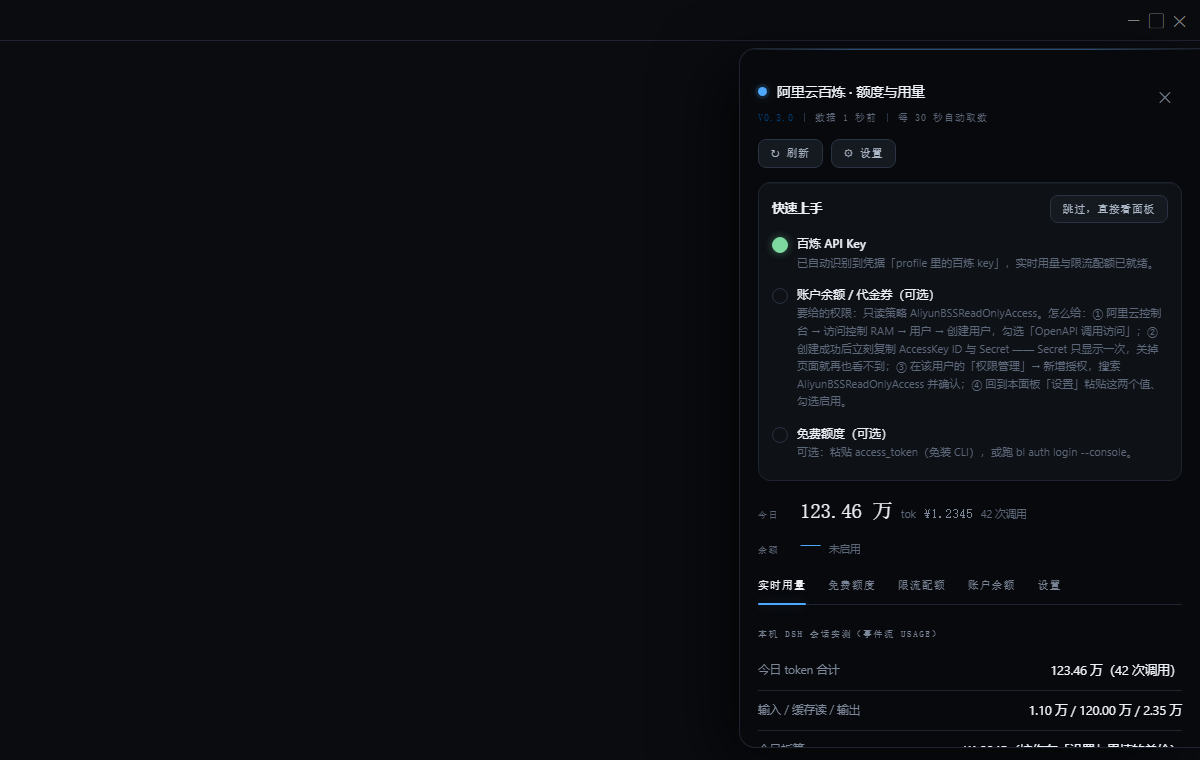
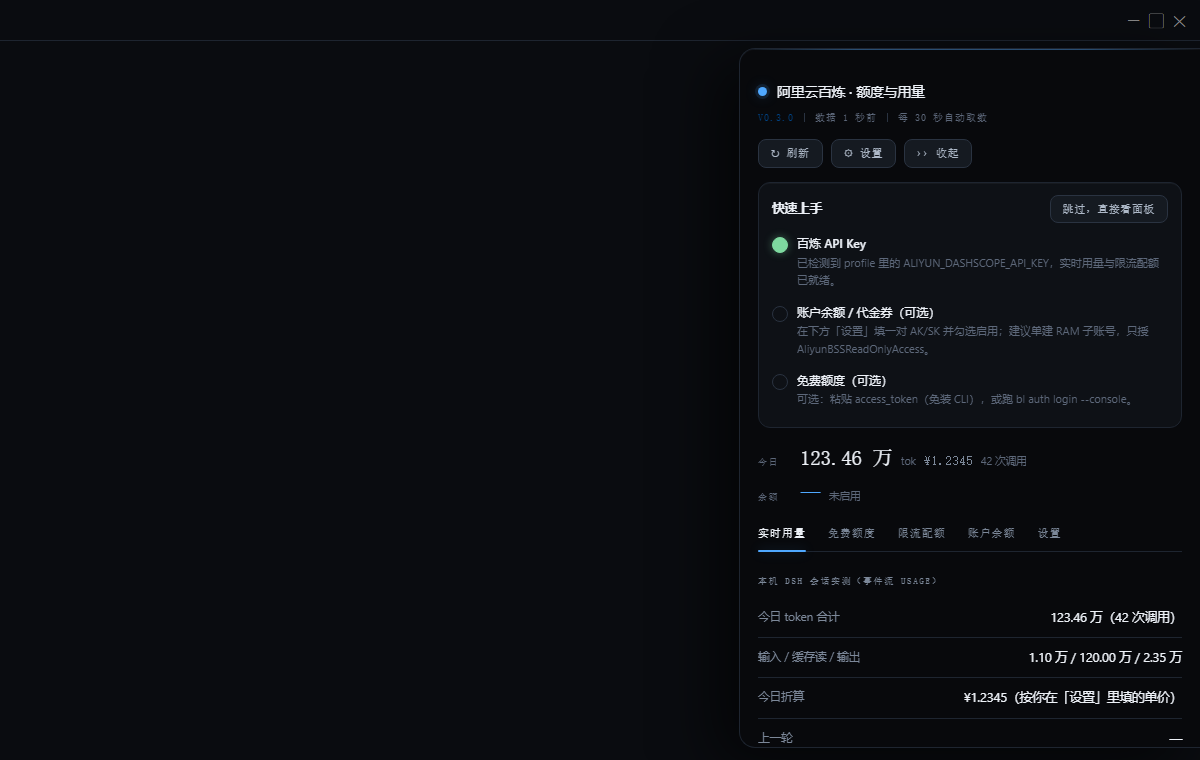
fix: catalog cache never persisted (DIR -> DATA_DIR); panel follows DSH design tokens
- lib/index.js: catalogFile() referenced an undefined DIR, so both cache read and
  write threw ReferenceError and were silently swallowed. The model catalog was
  therefore fetched on every refresh cycle (~30s) instead of once per 24h.
  Prices still worked; only the disk cache was dead. Added __test exports.
- test: 5 new assertions (cache file exists / path / contents + static check that
  every path.join(CONST, ...) constant is actually declared), positive-controlled.
- assets/widget.js: colors now reference --dsw-alias-* design tokens (follows the
  host theme instead of hardcoding one palette); 0.5px borders, soft shadows,
  token radii; default accent is the stock brand blue #5686FE.
- layout: summary is a single three-column band; token breakdown is four metric
  cards; decorative full-caps labels and letter-spacing removed.
- docs/img: re-rendered screenshots.

diff --git a/assets/widget.js b/assets/widget.js
@@ -8,28 +8,44 @@
   // —— 配色：终末地（dsh-endfield-theme）HUD 语言 ——
   // 一律「宿主变量优先 + 硬编码兜底」：装了 endfield 主题就完全跟随它，没装也不难看。
   // 关键令牌（从主题 theme.css 实测抽出）：--ef-y #f2f013 酸黄 / --ef-ink-900 #0a0c0c 墨黑
-  // / --ef-power-nominal|low|empty 电量三色 / --dsw-alias-state-* 状态色 / 字体 Endfield Tech。
+  // 现在统一改为引用 DSH 自己的 alias 层（--dsw-alias-*），换主题时自动跟随。
   var baseCss = [
     // —— 令牌 ——
-    // 强调色仍取主题的酸黄（跟 dsh-endfield-theme 一致），但表面一律用实色，
-    // 不再用半透明白叠加 —— 那是在深色底上产生「灰蒙蒙奶雾」的根源。
+    // —— 令牌：一律引用 DSH 自己的 alias 层（--dsw-alias-*），括号内是原版暗色的兜底值 ——
+    // 为什么这样做：DSH 换主题（原版亮/暗、以及第三方主题）就是覆盖这一层。
+    // 引用它 = 面板永远跟当前主题同色系、同字体，不会出现"插件自成一派"的割裂。
     '.' + P + '-drawer,.' + P + '-panel,.' + P + '-pill,.' + P + '-handle{',
-    '--base:#08090C;--surf:#0E1116;--raise:#151A21;--raise2:#1B222B;',
-    '--line:#1E2530;--line2:#2A3341;',
-    '--txt:#EEF2F8;--txt2:#AEB9C8;--dim:#7C8899;--dim3:#5D687A;',
-    '--ok:#7ED9A0;--warn:#F5B94B;--bad:#FF6B6B;',
-    '--tech:"Endfield Tech",Saira,ui-monospace,SFMono-Regular,Menlo,monospace;',
-    '--sans:"Endfield Sans SC",-apple-system,BlinkMacSystemFont,"Segoe UI","Microsoft YaHei",sans-serif;',
-    '--r:10px;--r2:14px;--ease:cubic-bezier(.22,.61,.36,1);--dur:.16s}',
+    '--base:var(--dsw-alias-bg-base,rgb(21,21,23));',
+    '--surf:var(--dsw-alias-bg-layer-1,rgb(35,35,36));',
+    '--raise:var(--dsw-alias-bg-layer-2,rgb(44,44,46));',
+    '--raise2:var(--dsw-alias-bg-layer-3,rgb(53,54,56));',
+    '--line:var(--dsw-alias-border-l1,rgba(255,255,255,.06));',
+    '--line2:var(--dsw-alias-border-l2,rgba(255,255,255,.12));',
+    '--line3:var(--dsw-alias-border-l3,rgba(255,255,255,.16));',
+    '--hover:var(--dsw-alias-interactive-bg-hover,rgba(255,255,255,.08));',
+    '--txt:var(--dsw-alias-label-primary,#f9fafb);',
+    '--txt2:var(--dsw-alias-label-secondary,#cfd3d6);',
+    '--dim:var(--dsw-alias-label-tertiary,#adb2b8);',
+    '--dim3:var(--dsw-alias-label-dimmed,rgb(67,69,74));',
+    '--ok:var(--dsw-alias-state-success-primary,rgb(34,197,94));',
+    '--warn:var(--dsw-alias-state-warn-primary,rgb(245,158,11));',
+    '--bad:var(--dsw-alias-state-error-primary,rgb(242,90,90));',
+    '--tech:var(--dsw-font-family-code,ui-monospace,SFMono-Regular,Menlo,monospace);',
+    '--sans:var(--dsw-font-family,-apple-system,BlinkMacSystemFont,"Segoe UI","Microsoft YaHei",sans-serif);',
+    '--r:var(--dsw-radius-md,8px);--r2:var(--dsw-radius-lg,12px);',
+    // 原版面板是 0.5px 细描边 + 柔和投影，不是大黑晕
+    '--elev-soft:0 .5px 0 var(--line),0 4px 16px rgba(0,0,0,.28);',
+    '--elev-panel:0 .5px 0 var(--line),0 3px 8px rgba(0,0,0,.32);',
+    '--ease:cubic-bezier(.22,.61,.36,1);--dur:.16s}',
     // —— 把手：实色小竖卡 + 靠屏一侧酸黄实边 + 顶部状态点 + 底部余额胶囊 ——
     '.' + P + '-handle{position:fixed;z-index:2147483000;display:flex;flex-direction:column;align-items:center;gap:9px;',
     'padding:11px 7px 10px;background:var(--surf);color:var(--txt2);border:1px solid var(--line);',
     'font:9.5px/1.5 var(--tech);letter-spacing:.2em;text-transform:uppercase;cursor:pointer;user-select:none;',
     'writing-mode:vertical-rl;touch-action:none;opacity:.92;',
-    'box-shadow:0 10px 34px rgba(0,0,0,.55),inset 0 1px 0 rgba(255,255,255,.05);',
+    'box-shadow:var(--elev-panel);',
     'transition:opacity var(--dur),border-color var(--dur),color var(--dur),transform var(--dur)}',
-    '.' + P + '-handle.right{right:0;border-right:none;border-radius:13px 0 0 13px;box-shadow:inset 3px 0 0 var(--acc),0 10px 34px rgba(0,0,0,.55),inset 0 1px 0 rgba(255,255,255,.05)}',
-    '.' + P + '-handle.left{left:0;border-left:none;border-radius:0 13px 13px 0;box-shadow:inset -3px 0 0 var(--acc),0 10px 34px rgba(0,0,0,.55),inset 0 1px 0 rgba(255,255,255,.05)}',
+    '.' + P + '-handle.right{right:0;border-right:none;border-radius:var(--r) 0 0 var(--r);box-shadow:inset 2px 0 0 var(--acc),var(--elev-panel)}',
+    '.' + P + '-handle.left{left:0;border-left:none;border-radius:0 var(--r) var(--r) 0;box-shadow:inset -2px 0 0 var(--acc),var(--elev-panel)}',
     '.' + P + '-handle:hover{opacity:1;color:var(--txt);border-color:var(--line2)}',
     '.' + P + '-handle.right:hover{transform:translateX(-2px)}',
     '.' + P + '-handle.left:hover{transform:translateX(2px)}',
@@ -50,16 +66,16 @@
     '.' + P + '-drawer{position:fixed;top:48px;bottom:12px;right:0;z-index:2147483001;overflow:auto;',
     'padding:0 18px 24px;transform:translateX(103%);opacity:0;pointer-events:none;',
     'transition:transform .3s var(--ease),opacity .24s ease;',
-    'border:1px solid var(--line);border-right:none;border-radius:16px 0 0 16px;background:var(--base);color:var(--txt);',
+    'border:.5px solid var(--line);border-right:none;border-radius:var(--r2) 0 0 var(--r2);background:var(--base);color:var(--txt);',
     'font:12.5px/1.7 var(--sans);max-width:92vw;',
-    'box-shadow:-24px 16px 60px rgba(0,0,0,.6),inset 0 1px 0 rgba(255,255,255,.04)}',
-    '.' + P + '-drawer.left{left:0;right:auto;border-radius:0 16px 16px 0;border-right:1px solid var(--line);border-left:none;',
+    'box-shadow:var(--elev-soft)}',
+    '.' + P + '-drawer.left{left:0;right:auto;border-radius:0 var(--r2) var(--r2) 0;border-right:1px solid var(--line);border-left:none;',
     'transform:translateX(-103%)}',
     '.' + P + '-drawer.open{transform:none;opacity:1;pointer-events:auto}',
     // 内容比外壳晚一点点，形成错峰入场；关闭时随外壳一起淡出
     '.' + P + '-body{transition:opacity .2s ease .06s,transform .28s var(--ease) .06s}',
     '.' + P + '-drawer:not(.open) ' + '.' + P + '-body{opacity:0;transform:translateY(8px)}',
-    '.' + P + '-hz{height:1px;margin:0 -18px 16px;background:linear-gradient(90deg,transparent,var(--acc-40) 25%,var(--acc-40) 75%,transparent)}',
+    '.' + P + '-hz{height:1px;margin:0 -18px 16px;background:var(--line)}',
     '.' + P + '-drawer::-webkit-scrollbar{width:10px}',
     '.' + P + '-drawer::-webkit-scrollbar-thumb{background:var(--line2);border-radius:8px;border:3px solid transparent;background-clip:padding-box}',
     '.' + P + '-drawer::-webkit-scrollbar-thumb:hover{background:#3A4553;background-clip:padding-box;border:3px solid transparent}',
@@ -72,33 +88,49 @@
     '.' + P + '-x:hover{color:var(--txt);background:var(--raise);border-color:var(--line2)}',
     '.' + P + '-hd h4{margin:0;font:500 13.5px/1.4 var(--sans);letter-spacing:.01em;display:flex;align-items:center;gap:10px;color:var(--txt)}',
     '.' + P + '-mark{width:9px;height:9px;border-radius:50%;flex:0 0 auto;background:var(--acc);box-shadow:0 0 0 3px var(--acc-12),0 0 14px var(--acc-28)}',
-    '.' + P + '-meta{display:flex;flex-wrap:wrap;gap:10px;margin-top:8px;font:10px/1.6 var(--tech);letter-spacing:.1em;text-transform:uppercase;color:var(--dim3)}',
+    '.' + P + '-meta{display:flex;flex-wrap:wrap;gap:10px;margin-top:8px;font:10.5px/1.6 var(--sans);letter-spacing:0;text-transform:none;color:var(--dim3)}',
     '.' + P + '-meta span:not(:first-child):before{content:"";display:inline-block;width:1px;height:9px;background:var(--line2);margin-right:10px;vertical-align:-1px}',
     '.' + P + '-chip.v{color:var(--acc-lo)}',
     '.' + P + '-acts{display:flex;gap:8px;margin-top:14px;flex-wrap:wrap}',
     // —— 摘要三行：不用卡片容器，靠留白与基线对齐建立层级 ——
-    '.' + P + '-sum{display:flex;flex-direction:column;gap:10px;margin:18px 0 2px}',
+    '.' + P + '-sum{display:grid;grid-template-columns:1.25fr 1fr 1fr;gap:0;margin:16px 0 4px;align-items:start}',
+    '.' + P + '-cell{min-width:0;padding:0 13px;border-left:.5px solid var(--line)}',
+    '.' + P + '-cell:first-child{border-left:0;padding-left:0}',
+    '.' + P + '-v{display:block;font:600 19px/1.3 var(--sans);letter-spacing:-.015em;',
+    'font-variant-numeric:tabular-nums;color:var(--txt);white-space:nowrap;overflow:hidden;text-overflow:ellipsis}',
+    '.' + P + '-v i{font-style:normal;font-weight:400;font-size:10px;color:var(--dim);margin-left:3px;letter-spacing:0}',
+    '.' + P + '-v.acc{color:var(--acc)}',
+    '.' + P + '-mets{display:grid;grid-template-columns:repeat(4,1fr);gap:8px;margin:6px 0 14px}',
+    '.' + P + '-met{background:var(--surf);border-radius:var(--r);padding:8px 10px;min-width:0}',
+    '.' + P + '-mk{display:block;font-size:10.5px;line-height:1.4;color:var(--dim);margin-bottom:3px}',
+    '.' + P + '-met b{display:block;font:600 13.5px/1.35 var(--sans);font-variant-numeric:tabular-nums;',
+    'white-space:nowrap;overflow:hidden;text-overflow:ellipsis;color:var(--txt)}',
+    '.' + P + '-track.slim{display:block;height:2px;margin-top:7px}',
     '.' + P + '-sumrow{display:flex;align-items:baseline;gap:8px;min-width:0}',
-    '.' + P + '-k{font:500 9px/1.6 var(--tech);letter-spacing:.16em;text-transform:uppercase;',
-    'color:var(--dim3);width:34px;flex:0 0 auto}',
-    '.' + P + '-sumrow b{font:400 21px/1.15 var(--tech);letter-spacing:-.01em;',
+    '.' + P + '-k{display:block;font:400 11px/1.5 var(--sans);letter-spacing:0;text-transform:none;',
+    'color:var(--dim);margin-bottom:2px}',
+    '.' + P + '-sumrow b{font:600 20px/1.15 var(--sans);letter-spacing:-.01em;',
     'font-variant-numeric:tabular-nums;color:var(--txt)}',
     '.' + P + '-sumrow b.acc{color:var(--acc)}',
-    '.' + P + '-u{font-size:10.5px;color:var(--dim3);white-space:nowrap;overflow:hidden;text-overflow:ellipsis}',
-    '.' + P + '-sumrow em{font-style:normal;font:400 12.5px/1 var(--tech);color:var(--dim);',
+    '.' + P + '-u{display:block;font-size:10.5px;line-height:1.5;color:var(--dim3);margin-top:2px;',
+    'white-space:nowrap;overflow:hidden;text-overflow:ellipsis}',
+    '.' + P + '-sumrow em{font-style:normal;font:400 12px/1 var(--sans);color:var(--dim);',
     'font-variant-numeric:tabular-nums}',
     '.' + P + '-gauge{display:flex;align-items:center;gap:8px}',
     '.' + P + '-track{flex:1 1 auto;height:2px;background:var(--raise2);border-radius:2px;overflow:hidden}',
     '.' + P + '-track u{display:block;height:100%;border-radius:2px;transition:width .35s var(--ease)}',
-    '.' + P + '-pct{font:400 11px/1 var(--tech);color:var(--dim);font-variant-numeric:tabular-nums;',
+    '.' + P + '-pct{font:400 11px/1 var(--sans);color:var(--dim);font-variant-numeric:tabular-nums;',
     'width:38px;text-align:right}',
     // —— 标签条 ——
-    '.' + P + '-tabs{display:flex;gap:22px;margin:20px 0 18px;border-bottom:1px solid var(--line);flex-wrap:wrap}',
-    '.' + P + '-tab{padding:0 0 11px;font:500 10.5px/1.4 var(--tech);letter-spacing:.14em;text-transform:uppercase;',
-    'color:var(--dim);cursor:pointer;white-space:nowrap;position:relative;transition:color var(--dur)}',
+    '.' + P + '-tabs{display:flex;gap:2px;margin:18px 0 16px;padding:3px;background:var(--surf);',
+    'border-radius:var(--r);flex-wrap:nowrap}',
+    '.' + P + '-tab{padding:6px 2px;border-radius:calc(var(--r) - 2px);',
+    'font:500 11.5px/1.35 var(--sans);letter-spacing:0;text-transform:none;text-align:center;',
+    'flex:1 1 0;min-width:0;overflow:hidden;text-overflow:ellipsis;color:var(--dim);cursor:pointer;',
+    'white-space:nowrap;position:relative;transition:color var(--dur),background var(--dur)}',
     '.' + P + '-tab:hover{color:var(--txt2)}',
-    '.' + P + '-tab.on{color:var(--txt)}',
-    '.' + P + '-tab.on:after{content:"";position:absolute;left:0;right:0;bottom:-1px;height:2px;background:var(--acc);border-radius:2px;box-shadow:0 0 12px var(--acc-28)}',
+    '.' + P + '-tab.on{color:var(--txt);background:var(--raise);box-shadow:0 .5px 0 rgba(0,0,0,.18)}',
+    '.' + P + '-tab.on:after{display:none}',
     '.' + P + '-body{animation:' + P + '-in .2s var(--ease)}',
     '@keyframes ' + P + '-in{from{opacity:0;transform:translateY(6px)}to{opacity:1;transform:none}}',
     // —— 旧胶囊模式 ——
@@ -109,8 +141,8 @@
     '.' + P + '-pill:hover{border-color:var(--line2)}',
     '.' + P + '-pill b{font-weight:600;color:var(--acc);font-variant-numeric:tabular-nums}',
     '.' + P + '-panel{position:fixed;left:16px;bottom:56px;z-index:2147483001;width:640px;max-width:calc(100vw - 32px);',
-    'max-height:min(78vh,760px);overflow:auto;border-radius:var(--r2);border:1px solid var(--line);background:var(--base);',
-    'color:var(--txt);font:12.5px/1.7 var(--sans);box-shadow:0 24px 60px rgba(0,0,0,.6);padding:16px 18px;',
+    'max-height:min(78vh,760px);overflow:auto;border-radius:var(--r2);border:.5px solid var(--line);background:var(--base);',
+    'color:var(--txt);font:12.5px/1.7 var(--sans);box-shadow:var(--elev-soft);padding:16px 18px;',
     'animation:dshbl-panel-in .26s var(--ease) both}',
     // 出场：JS 挂上 closing 类，动画放完再移除节点
     // 注意名字要带 panel- 前缀：裸 dshbl-in 已被内容区换页动画占用（见上方 -body 规则），
@@ -122,7 +154,7 @@
     '.' + P + '-dot{width:6px;height:6px;border-radius:50%;background:var(--ok);flex:0 0 auto;display:inline-block;box-shadow:0 0 8px var(--ok)}',
     '.' + P + '-dot.warn{background:var(--warn);box-shadow:0 0 8px var(--warn)}',
     '.' + P + '-dot.err{background:var(--bad);box-shadow:0 0 8px var(--bad)}',
-    '.' + P + '-sec{margin:22px 0 10px;font:500 9px/1.5 var(--tech);letter-spacing:.18em;text-transform:uppercase;',
+    '.' + P + '-sec{margin:18px 0 8px;font:500 11px/1.5 var(--sans);letter-spacing:0;text-transform:none;',
     'color:var(--dim);display:flex;align-items:center;gap:12px}',
     // 列间距做进 padding：用 grid gap 会让每格 border-bottom 在列间断成两截
     '.' + P + '-kv{display:grid;grid-template-columns:auto 1fr;gap:0;font-size:12.5px}',
@@ -130,9 +162,9 @@
     '.' + P + '-kv>span:nth-child(odd){color:var(--dim);white-space:nowrap;padding-right:18px}',
     '.' + P + '-kv>span:nth-child(even){text-align:right;font-variant-numeric:tabular-nums;min-width:0;overflow-wrap:anywhere;color:var(--txt)}',
     '.' + P + '-kv>span:nth-last-child(-n+2){border-bottom:none}',
-    '.' + P + '-grid{display:grid;grid-template-columns:1fr auto auto auto;gap:0;font:12px/1 var(--tech);',
+    '.' + P + '-grid{display:grid;grid-template-columns:1fr auto auto auto;gap:0;font:12px/1 var(--sans);',
     'font-variant-numeric:tabular-nums;padding-bottom:6px}',
-    '.' + P + '-grid b{font-size:9px;letter-spacing:.14em;text-transform:uppercase;color:var(--dim);font-weight:500;padding:0 0 9px}',
+    '.' + P + '-grid b{font-size:11px;letter-spacing:0;text-transform:none;color:var(--dim);font-weight:500;padding:0 0 9px}',
     '.' + P + '-grid b:not(:first-child),.' + P + '-grid>span:not(:first-child){padding-left:14px}',
     '.' + P + '-grid>span{padding-top:9px;padding-bottom:9px;align-self:center;color:var(--txt2)}',
     '.' + P + '-rule{grid-column:1/-1;height:1px;background:var(--line2)}',
@@ -140,14 +172,15 @@
     '.' + P + '-g5{grid-template-columns:1fr auto auto auto auto}',
     '.' + P + '-bar{height:3px;border-radius:999px;background:var(--raise2);overflow:hidden;margin-top:8px;grid-column:1/-1}',
     '.' + P + '-bar i{display:block;height:100%;border-radius:999px;transition:width .35s var(--ease)}',
-    '.' + P + '-badge{display:inline-block;padding:2px 8px;border-radius:999px;font:500 9px/1.7 var(--tech);',
-    'letter-spacing:.1em;text-transform:uppercase;border:1px solid var(--line2);background:var(--raise);color:var(--dim)}',
+    '.' + P + '-badge{display:inline-block;padding:1px 7px;border-radius:999px;font:500 10.5px/1.7 var(--sans);',
+    'letter-spacing:0;text-transform:none;border:.5px solid var(--line2);background:var(--raise);color:var(--dim)}',
     '.' + P + '-badge.on{border-color:rgba(126,217,160,.35);color:var(--ok);background:rgba(126,217,160,.10)}',
     '.' + P + '-badge.warn{border-color:rgba(245,185,75,.35);color:var(--warn);background:rgba(245,185,75,.10)}',
     '.' + P + '-badge.na{opacity:.5}',
     '.' + P + '-badge.bad{border-color:rgba(255,107,107,.35);color:var(--bad);background:rgba(255,107,107,.10)}',
     // 代金券：实色卡 + 顶部渐隐酸黄线 + 大额酸黄读数
-    '.' + P + '-ticket{position:relative;background:var(--surf);border:1px solid var(--line);border-radius:var(--r2);',
+    '.' + P + '-ticket{position:relative;background:transparent;border:0;border-top:.5px solid var(--line);',
+    'border-radius:0;',
     'padding:15px 16px;margin:12px 0;overflow:hidden;box-shadow:inset 0 1px 0 rgba(255,255,255,.04)}',
     '.' + P + '-ticket:before{content:"";position:absolute;left:0;right:0;top:0;height:1px;background:linear-gradient(90deg,transparent,var(--acc-40),transparent)}',
     '.' + P + '-tkt-hd{display:flex;justify-content:space-between;align-items:center;gap:12px;font-size:12.5px;font-weight:500;color:var(--txt)}',
@@ -176,7 +209,7 @@
     '.' + P + '-tick.done{background:var(--ok);border-color:var(--ok);box-shadow:0 0 8px rgba(126,217,160,.4)}',
     '.' + P + '-wizhd{display:flex;justify-content:space-between;align-items:center;gap:10px;margin-bottom:4px}',
     '.' + P + '-muted{color:var(--dim);font-size:11.5px}',
-    '.' + P + '-note{border:1px solid var(--line);border-left:2px solid var(--warn);padding:10px 12px;background:var(--surf);',
+    '.' + P + '-note{border:0;padding:0;background:transparent;font-size:11.5px;line-height:1.65;',
     'border-radius:0 var(--r) var(--r) 0;font-size:11.5px;margin:10px 0;line-height:1.75;color:var(--txt2)}',
     '.' + P + '-note.err{border-left-color:var(--bad);background:rgba(255,107,107,.06)}',
     '.' + P + '-note.ok{border-left-color:var(--ok);background:rgba(126,217,160,.06)}',
@@ -192,8 +225,10 @@
 
   // —— 强调色：单一变量驱动 + 可读性钳制 ——
   // 只暴露一个可调项（用户面对 12 个变量只会关掉面板）。派生量全部由这一个 hex 算出来。
-  var ACCENT_DEFAULT = '#4FA8FF'
-  var PRESETS = [['天蓝', '#4FA8FF'], ['青碧', '#2FD4C4'], ['紫电', '#8A7BFF'], ['酸黄', '#F2F013']]
+  // 默认取原版 DSH 的品牌蓝（=--dsw-static-deepseek-450）；设置里可换回天蓝/酸黄等
+  var ACCENT_DEFAULT = '#5686FE'
+  var PRESETS = [['原版蓝', '#5686FE'], ['天蓝', '#4FA8FF'], ['青碧', '#2FD4C4'],
+                 ['紫电', '#8A7BFF'], ['酸黄', '#F2F013']]
   var styleEl = null, accentNow = ACCENT_DEFAULT, accFromConfig = null
 
   function hexToRgb(h) {
@@ -533,17 +568,20 @@
       var cs = (b.coupons || []).filter(function (c) { return c.status === 'Available' })
       note = cs.length ? ('券 · ' + (cs[0].daysLeft == null ? '—' : cs[0].daysLeft + ' 天')) : '可用额度'
     } else if (!b.ok) note = '未启用'
+    // 三栏指标带：每格「标签 / 主数字 / 附注」，中间用发丝竖线分隔
     var h = '<div class="' + P + '-sum">'
-    h += '<div class="' + P + '-sumrow"><span class="' + P + '-k">今日</span><b>' + kfmt(t.tokens || 0) + '</b>'
-      + '<span class="' + P + '-u">tok</span><em>' + (t.money ? esc(t.money) : '—') + '</em>'
-      + '<span class="' + P + '-u">' + (t.calls || 0) + ' 次调用</span></div>'
-    h += '<div class="' + P + '-sumrow"><span class="' + P + '-k">余额</span><b class="acc">'
-      + (cp == null ? '—' : money(cp)) + '</b><span class="' + P + '-u">' + note + '</span></div>'
+    h += '<div class="' + P + '-cell"><span class="' + P + '-k">今日</span>'
+      + '<b class="' + P + '-v">' + kfmt(t.tokens || 0) + '<i>tok</i></b>'
+      + '<span class="' + P + '-u">' + (t.money ? esc(t.money) : '—') + ' · ' + (t.calls || 0) + ' 次</span></div>'
+    h += '<div class="' + P + '-cell"><span class="' + P + '-k">余额</span>'
+      + '<b class="' + P + '-v acc">' + (cp == null ? '—' : money(cp)) + '</b>'
+      + '<span class="' + P + '-u">' + note + '</span></div>'
     if (fw != null) {
       var w = Math.max(0, Math.min(100, fw))
-      h += '<div class="' + P + '-gauge"><span class="' + P + '-k">免费</span>'
-        + '<i class="' + P + '-track"><u style="width:' + w + '%;background:' + barColor(fw, accentNow) + '"></u></i>'
-        + '<span class="' + P + '-pct">' + fw + '%</span></div>'
+      h += '<div class="' + P + '-cell"><span class="' + P + '-k">免费</span>'
+        + '<b class="' + P + '-v">' + fw + '<i>%</i></b>'
+        + '<i class="' + P + '-track slim"><u style="width:' + w + '%;background:' + barColor(fw, accentNow) + '"></u></i>'
+        + '</div>'
     }
     return h + '</div>'
   }
@@ -615,10 +653,16 @@
   function liveBody() {
     var s = state || {}, t = s.today || {}, lt = s.lastTurn || {}
     var by = t.byModel || {}, models = Object.keys(by)
-    var h = '<div class="' + P + '-sec">本机 DSH 会话实测（事件流 usage）</div><div class="' + P + '-kv">'
-      + row('今日 token 合计', kfmt(t.tokens) + '（' + (t.calls || 0) + ' 次调用）')
-      + row('输入 / 缓存读 / 输出', kfmt(t.input) + ' / ' + kfmt(t.cache) + ' / ' + kfmt(t.output))
-      + row('今日折算', t.money ? t.money + '（按你在「设置」里填的单价）' : '<span class="' + P + '-muted">未配置单价，仅报 token</span>')
+    // 四个小指标块横排，替代原来"输入/缓存读/输出"挤在一行
+    // 四个小指标块横排，替代原来"输入 / 缓存读 / 输出"挤在同一行
+    var h = '<div class="' + P + '-sec">本机 DSH 会话实测（事件流 usage）</div>'
+      + '<div class="' + P + '-mets">'
+      + '<div class="' + P + '-met"><span class="' + P + '-mk">输入</span><b>' + kfmt(t.input) + '</b></div>'
+      + '<div class="' + P + '-met"><span class="' + P + '-mk">缓存读</span><b>' + kfmt(t.cache) + '</b></div>'
+      + '<div class="' + P + '-met"><span class="' + P + '-mk">输出</span><b>' + kfmt(t.output) + '</b></div>'
+      + '<div class="' + P + '-met"><span class="' + P + '-mk">调用</span><b>' + (t.calls || 0) + ' 次</b></div>'
+      + '</div><div class="' + P + '-kv">'
+      // 「合计」与「折算」已由上方三栏 + 指标块表达，不再重复一遍
       + row('上一轮', lt.tokens ? kfmt(lt.input + lt.cache + lt.output) + ' tok · ' + esc(lt.model || '') + ' · ' + esc((lt.at || '').slice(11, 19)) : '—')
       + '</div>'
     var mo = s.monitor || {}

diff --git a/lib/index.js b/lib/index.js
@@ -409,7 +409,7 @@ function readProfileModels() {
 // DashScope 的模型目录（含官方单价）。实测形状：output.models[].prices.prices[]
 // 每项 { type: input_token|output_token|input_token_cache, price, price_unit }
 const CATALOG_TTL = 24 * 3600 * 1000
-function catalogFile() { return path.join(DIR, 'model-catalog.json') }
+function catalogFile() { return path.join(DATA_DIR, 'model-catalog.json') }
 
 async function fetchModelCatalog(ctx) {
   const c = readConfig()
@@ -689,7 +689,7 @@ function mapCoupons(list, hideVouchers) {
   }
 }
 
-export const __test = { mapCoupons, isDiscountVoucher }
+export const __test = { mapCoupons, isDiscountVoucher, catalogFile, CATALOG_TTL, DATA_DIR }
 
 export default {
   name: 'bailian-balance',

diff --git a/CHANGELOG.md b/CHANGELOG.md
@@ -2,6 +2,21 @@
 
 遵循 [Keep a Changelog](https://keepachangelog.com/zh-CN/1.1.0/) 与语义化版本。
 
+## 0.3.4
+
+### 修复
+- 模型目录缓存从未落盘：`catalogFile()` 引用了未定义的 `DIR`（应为 `DATA_DIR`），
+  异常被 `try/catch` 静默吞掉，导致缓存读写全部失效。后果是目录接口从「24 小时拉一次」
+  退化成「每个刷新周期都拉一次」（面板开着时约每 30 秒一次），单价显示本身不受影响。
+- 补了 5 条断言防回归：缓存文件存在 / 路径正确 / 内容含时间戳与单价表，外加一条静态检查
+  （`path.join(<大写常量>, …)` 里的常量必须真的声明过）。已用「把 bug 放回去」做过阳性对照。
+
+### 外观
+- 面板配色改为引用 DSH 自身的设计令牌（`--dsw-alias-*`），随宿主主题切换，不再是写死的一套色；
+  阴影改为 0.5px 细描边 + 柔和投影，圆角走 `--dsw-radius-*`。默认强调色换成原版品牌蓝 `#5686FE`。
+- 排版重做：摘要从三行竖排改为一行三栏指标带；主 Tab 的 token 明细改为四个并列指标块；
+  去掉与小节标题重复的全大写、字距等装饰。
+
 ## v0.3.0
 
 ### 新增
